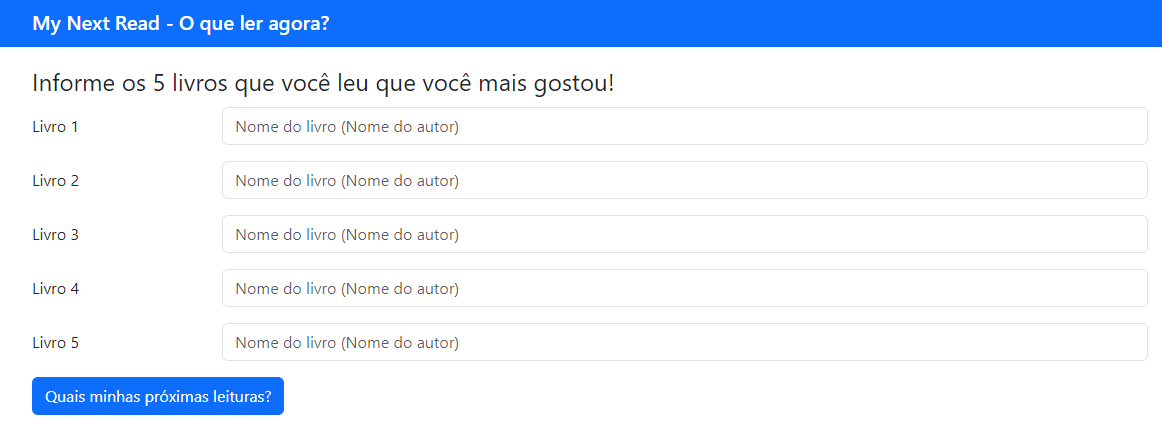
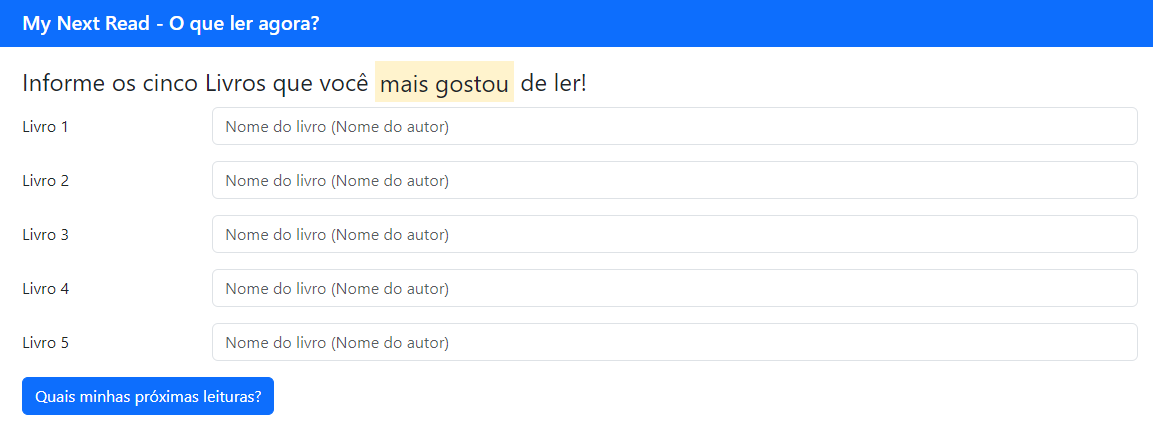
ajuste do readme

diff --git a/public/index.html b/public/index.html
@@ -21,7 +21,7 @@
             <div class="container">
                 <div class="row pt-3">
                     <form id="askNow" action="/what-my-nex" method="POST">
-                        <legend>Informe os 5 livros que você leu que você mais gostou!</legend>
+                        <legend>Informe os cinco Livros que você <mark>mais gostou</mark> de ler!</legend>
                         <div class="mb-3 row">
                             <label for="book1" class="col-sm-2 col-form-label" >Livro 1</label>
                             <div class="col-sm-10">

diff --git a/README.md b/README.md
@@ -4,9 +4,9 @@ Quem nunca terminou de ler um livro e ficou na dúvida do que ler em seguida nã
 
 Enão utilize o My Nex Read para saber o que você pode ler agora que tem haver com seus gostos literários!
 
+<p align="center"><img src="doc/images/image_1.png" width="700px"></p>
 
-
-### Tecniologias utilizadas
+### Principais Tecniologias/Ferramentas
 
 - Google GenerativeAI - Gemini API
 - NodeJS
@@ -14,7 +14,25 @@ Enão utilize o My Nex Read para saber o que você pode ler agora que tem haver 
 - HTML5
 
 
-## Get Started
+## Estratégias
+
+Foi utilizado a estratégia de **Few-shot Chain-of-Thought Prompting** que consiste em uma combinação da técnica de Few Shot, onde se dá exemplos de entrada e de saída no pormpt, como também a técninca de Cadeia de pensamentos, ou seja, ensiar ao modelo como ele deve pensar para devolver uma resposta.
+
+Induzi o modelo a identificar os gêneros literários mais presentes na lista e alguma outra caraterística como a quantidade de páginas. 
+
+Além disso, no modelo de resposta pedi que ele retornasse em json, para poder tratar na saída e poder facilmente manipular cada passo da resposta no front.
+
+Coloquei uma tag mark para as categorias de livros na resposta esperada e ele também identificou esse indicativo.
+
+<p align="center">
+    <img src="doc/images/prompt.png" width="700px">
+</p>
+
+## Resultados
+<img src="doc/images/image_3.png" width="700px">
+<img src="doc/images/image_2.png" width="700px">
+
+## Faça você mesmo
 
 ### Pré requisitos
 
